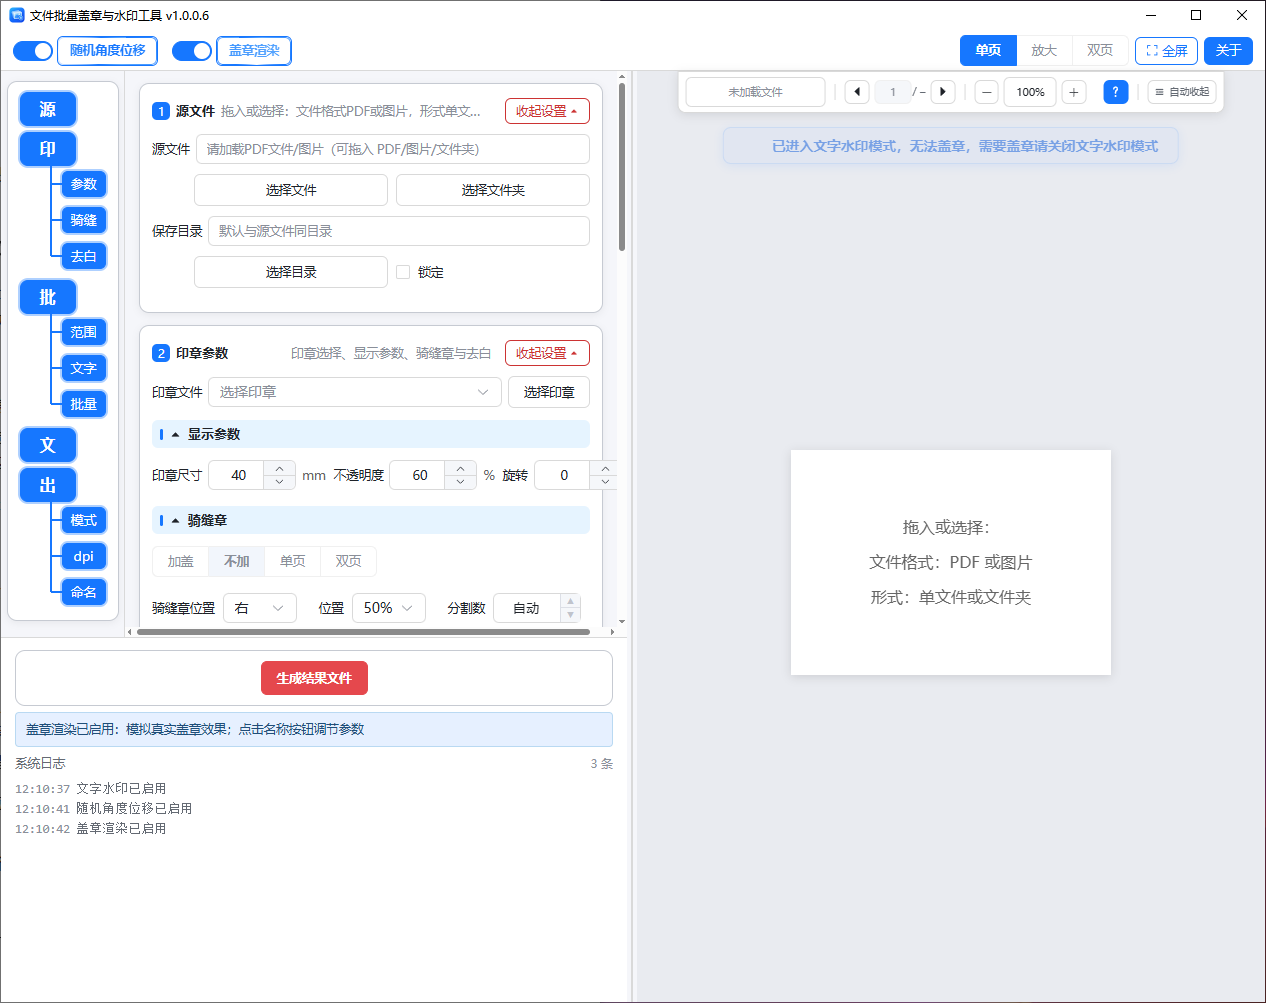
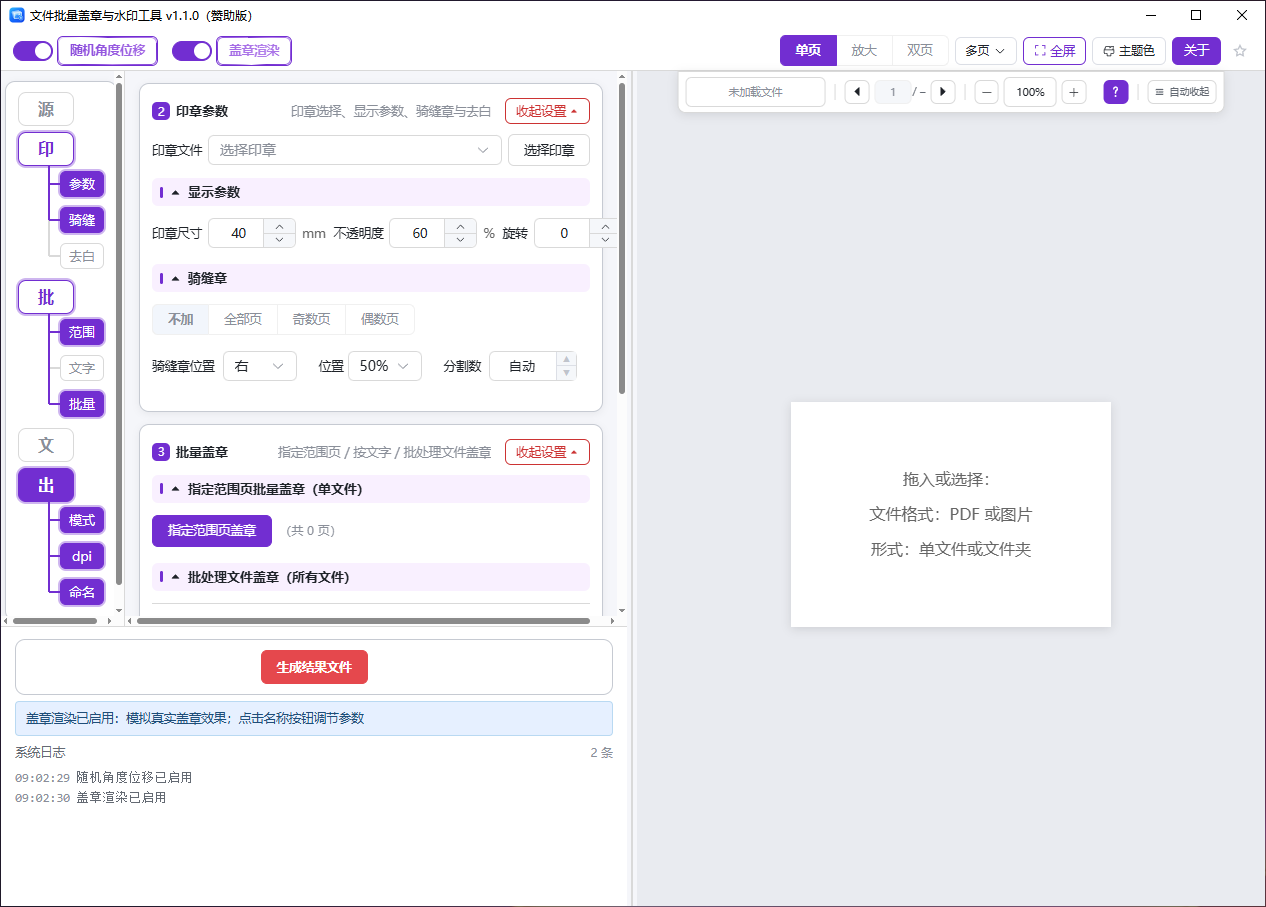
更新 README

diff --git a/AGENTS.md b/AGENTS.md
@@ -6,7 +6,7 @@
 
 本仓库同时推送 GitHub（gggg312/FileStampWatermark）与 Gitee（gaopeng262/file-stamp-watermark）。**线上只允许出现主程序源码与开源合规文件**，任何测试、过程、交付、备份、印章资产一律禁止入库。
 
-- **允许入库**：`WebShell/`、`WebUI/prototype/`、`PDFQFZ/`、`README.md`、`LICENSE`、`LICENSES/`、`LICENSING.md`、`THIRD-PARTY-NOTICES.md`、`.gitignore`、`.gitattributes`、`封面图.png`。（V1.0.0.37：弃用的 `PDFQFZ.WPF/` 项目已移入本地 `备份文件夹\PDFQFZ.WPF_弃用_1.0.0.37\`，不入库；其被 WebShell 编译的 `Services/StampEngine.cs`、`StampBatchWorker.cs`、`StampBatchRequest.cs` 已并入 `WebShell/Services/`）
+- **允许入库**：`WebShell/`、`WebUI/prototype/`、`PDFQFZ/`、`README.md`、`LICENSE`、`LICENSES/`、`LICENSING.md`、`THIRD-PARTY-NOTICES.md`、`.gitignore`、`.gitattributes`、`封面图.png`、`赞赏码_small.jpg`。（V1.0.0.37：弃用的 `PDFQFZ.WPF/` 项目已移入本地 `备份文件夹\PDFQFZ.WPF_弃用_1.0.0.37\`，不入库；其被 WebShell 编译的 `Services/StampEngine.cs`、`StampBatchWorker.cs`、`StampBatchRequest.cs` 已并入 `WebShell/Services/`）
 - **禁止入库**（`.gitignore` 已排除，文件保留在本地工作区，不入 git）：`交付版本/`、`备份文件夹/`、`备份/`、`E2E/`、`PDFQFZ.Tests/`、`工具脚本/`、`输出记录*.md`、`Web交付版本/`、一切 `*.exe`、一切印章/公章图片（如 `WebShell/Assets/公章.png`）、`*debug_page.pdf`、`app_icon_raw.png`、`运行组件/`。
 - **公章铁律**：软件正式版默认不携带任何印章；EXE 不内嵌公章（已移除 `EmbeddedResource` 与释放逻辑）。任何人不得重新把公章图片加入源码、资源或提交。
 
@@ -22,3 +22,12 @@
 - 每次代码改动后：单测回归（`dotnet test PDFQFZ.Tests\PDFQFZ.Tests.csproj`，基线 242）→ 编译双档（免费 TRACE / 赞助 TRACE;VIP_PAID）→ 版本号 +1 → 交付 EXE 放 `交付版本\<版本>_免费版与赞助版\`（该目录不入库）。
 - EXE 文件名不带"免费版"字样（发布用名）；赞助版加 `_赞助版` 后缀。
 - 用户手动修改过的文件作为后续修订母版，不得回退。
+
+## 四、线上历史与本地调试历史分离（2026-10-08 确立）
+
+- 线上 main 只保留发布 commit：每个发布一个 commit（`发布 1.0.0`、`发布 1.1.0`…），并打对应 tag（v1.0.0、v1.1.0…）。线上 commit 历史必须保持"只有发布节点"的干净结构，**禁止把调试 commit 推上线上**。
+- 完整调试历史保留在本地 `main-full` 分支（59 条 V1.0.0.x 记录），**禁止推送到 GitHub/Gitee**。
+- 日常开发在本地 main-full（或临时分支）提交，message 写"修复xxx / 新增xxx / 优化xxx"，不带版本号。
+- 发布流程：生成发布版 → 在 main 上追加一个"发布 x.x.x" commit（树 = 该发布代码状态）+ 打 tag vx.x.x → push main 与 tag 到双远程。
+- push 前检查：`git log --oneline main` 应只看到发布节点；确认调试历史只在本地（`main-full`）。任何情况下不得 `git push origin main-full`、`git push gitee main-full` 或把调试历史并入 main。
+- 仓库级文档（AGENTS.md/README 等）的内容修订先在 main-full 提交，随下次发布 commit 一并上线上；不得在 main 上单独新增非发布 commit。
